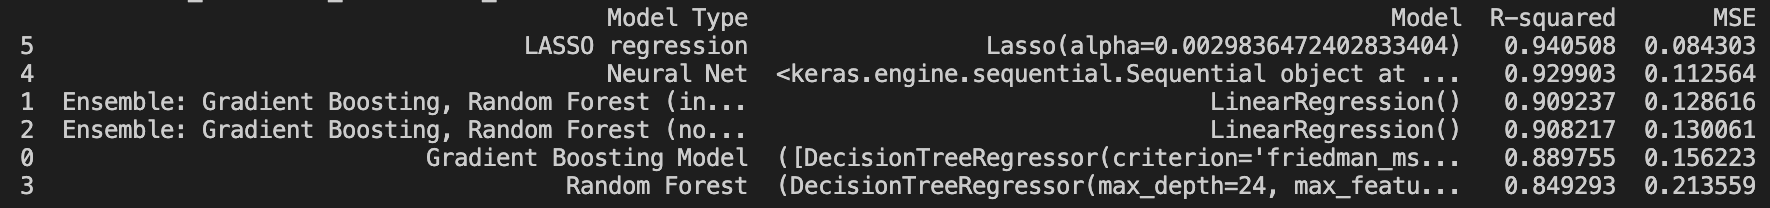
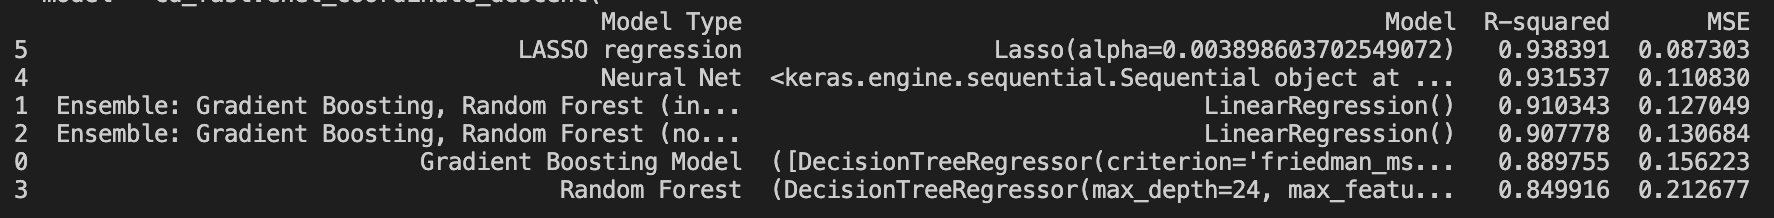
Final commit!

diff --git a/build_model.py b/build_model.py
@@ -6,6 +6,7 @@ from custom_functions import *
 from scipy.stats import randint     
 from sklearn.ensemble import GradientBoostingRegressor
 from sklearn.linear_model import LinearRegression
+import joblib
 import pickle
 
 # Read in the data from the CSV generated in Exploratory_data_analysis.py
@@ -36,11 +37,15 @@ def build_lasso_regression_model(df_to_feed_into_models: pd.DataFrame):
     X_train_scaled = scaler.fit_transform(X_train)
 
     X_test_scaled = scaler.transform(X_test)
+    # Save the scaler to a file:
+    scaler_filename = 'LASSO_scaler.pkl'
+    with open(scaler_filename, 'wb') as scaler_file:
+        pickle.dump(scaler, scaler_file)
 
     # Create a range of alpha values to test
-    alphas = np.logspace(-6, 2, 100)
-    # Initialize LassoCV with 4-fold cross-validation
-    lasso_cv = LassoCV(alphas=alphas, cv=4, verbose=False)  
+    alphas = np.logspace(-4, 1, 45)
+    # Initialize LassoCV with 3-fold cross-validation
+    lasso_cv = LassoCV(alphas=alphas, cv=3, verbose=False)  
     # Fit LassoCV to the scaled training data
     lasso_cv.fit(X_train_scaled, y_train)
     # Get the selected alpha
@@ -57,6 +62,21 @@ def build_lasso_regression_model(df_to_feed_into_models: pd.DataFrame):
     y_pred = lasso_model.predict(X_test_scaled)
     mse = mean_squared_error(y_test, y_pred)
     r_squared = r2_score(y_test, y_pred)
+
+    # Save the Lasso model using joblib
+    joblib.dump(lasso_model, "lasso_model_permeability.pkl")
+
+    # Calculate residuals
+    residuals = y_test - y_pred
+
+    # Create a scatter plot of residuals vs. predicted values
+    plt.scatter(y_pred, residuals, alpha=0.5)
+    plt.title('Residuals vs. Predicted Values')
+    plt.xlabel('Predicted Values')
+    plt.ylabel('Residuals')
+    plt.axhline(0, color='red', linestyle='--', linewidth=1)
+    plt.savefig('LASSO_residuals.png')
+
     return (lasso_model, r_squared, mse)
 
 
@@ -84,6 +104,7 @@ def build_random_forest_model(df_to_feed_into_models: pd.DataFrame, interactions
 
     if not interactions:
         X_train, X_test, y_train, y_test = train_test_split(X, y, test_size=0.3, random_state=84)
+        model_filename = "random_forest_model_permeability_no_interactions.pkl"
     
     else:
         # Here I'm making a subset of predictors that exclude all the chemical fingerprints 
@@ -119,6 +140,7 @@ def build_random_forest_model(df_to_feed_into_models: pd.DataFrame, interactions
         df_combined = pd.concat([X, only_the_interactions], axis=1)
 
         X_train, X_test, y_train, y_test = train_test_split(df_combined, y, test_size=0.3, random_state=84)
+        model_filename = "random_forest_model_permeability_w_interactions.pkl"
 
     
     # Standardize the features
@@ -168,6 +190,7 @@ def build_random_forest_model(df_to_feed_into_models: pd.DataFrame, interactions
     
 
     best_estimator = random_search_narrowed.best_estimator_
+    joblib.dump(best_estimator, model_filename)
     y_pred = best_estimator.predict(X_test_scaled)
     r_squared_rf = r2_score(y_test, y_pred)
     mse_rf = mean_squared_error(y_test, y_pred)
@@ -200,6 +223,7 @@ def ensemble_gradient_plus_random_forest(df_to_feed_into_models: pd.DataFrame, i
     if not interactions:
         X_train, X_test, y_train, y_test = train_test_split(X, y, test_size=0.3, random_state=84)
         scaler_filename = 'scaler_ensemble_no_interactions.pkl'
+        model_name = 'ensemble_model_no_interactions.pkl'
 
     elif interactions:
         print("examining interactions between non-fingerprint terms")
@@ -237,6 +261,7 @@ def ensemble_gradient_plus_random_forest(df_to_feed_into_models: pd.DataFrame, i
 
         X_train, X_test, y_train, y_test = train_test_split(df_combined, y, test_size=0.3, random_state=84)
         scaler_filename = 'scaler_ensemble_interactions.pkl'
+        model_name = 'ensemble_model_w_interactions.pkl'
 
     # Standardize the features
     scaler = StandardScaler()
@@ -260,6 +285,7 @@ def ensemble_gradient_plus_random_forest(df_to_feed_into_models: pd.DataFrame, i
     ensemble_X = np.column_stack((rf_predictions, gb_predictions))  # Combine predictions
     ensemble_model = LinearRegression()  
     ensemble_model.fit(ensemble_X, y_test)
+    joblib.dump(ensemble_model, model_name)
 
     # Make predictions using the ensemble model
     ensemble_predictions = ensemble_model.predict(ensemble_X)
@@ -289,6 +315,9 @@ def build_gradient_boosting_model(df_to_feed_into_models: pd.DataFrame):
     scaler = StandardScaler()
     X_train_scaled = scaler.fit_transform(X_train)
     X_test_scaled = scaler.transform(X_test)
+    scaler_filename = 'scaler_gradient_boosting.pkl'
+    with open(scaler_filename, 'wb') as scaler_file:
+        pickle.dump(scaler, scaler_file)
 
     # Initialize the Gradient Boosting Regressor
     gradient_boosting_model = GradientBoostingRegressor(
@@ -307,6 +336,8 @@ def build_gradient_boosting_model(df_to_feed_into_models: pd.DataFrame):
     # Evaluate the Gradient Boosting model's performance
     mse_gb = mean_squared_error(y_test, y_pred_gb)
     r_squared_gb = gradient_boosting_model.score(X_test_scaled, y_test)
+    model_name = 'gradient_boosting_model.pkl'
+    joblib.dump(gradient_boosting_model, model_name)
 
     return (gradient_boosting_model, r_squared_gb, mse_gb)
 
@@ -447,7 +478,7 @@ def build_neural_net(df_to_feed_into_models: pd.DataFrame, l2_penalty=None):
 
             # Train the neural network
             model.fit(X_train_combined_tf, y_train_tf, epochs=100, batch_size=32, verbose=1, validation_split=0.2)
-            model.save("neural_net_permeability.h5")
+            model.save("neural_net_permeability.pkl")
 
             # Evaluate the model on the test data
             mse_nn = model.evaluate(X_test_combined_tf, y_test_tf)

diff --git a/permeability_prediction.py b/permeability_prediction.py
@@ -1,0 +1,89 @@
+import argparse
+from rdkit import Chem
+from rdkit.Chem import Descriptors
+import pickle
+import numpy as np
+from custom_functions import *
+from Exploratory_data_analysis import *
+import joblib
+
+def load_scaler(scaler_file):
+    """
+    Load a scaler from a saved file.
+
+    Parameters:
+        scaler_file (str): The path to the saved scaler file.
+
+    Returns:
+        scaler: The loaded scaler object.
+    """
+    with open(scaler_file, 'rb') as scaler_file:
+        scaler = pickle.load(scaler_file)
+    return scaler
+
+def canonicalize_dataframe(df: pd.DataFrame):
+    """
+    Canonicalize a DataFrame by alphabetically ordering its column names.
+
+    The goal of this function is to put all the column names in alphabetical order so that
+    we can avoid an additional hard coding step when working with the DataFrame.
+
+    Parameters:
+        df (pd.DataFrame): The DataFrame to be canonicalized.
+
+    Returns:
+        pd.DataFrame: A new DataFrame with column names sorted alphabetically.
+    """
+    existing_columns = df.columns
+    sorted_columns = sorted(existing_columns)
+    # Create a mapping dictionary to rename columns alphabetically
+    rename_dict = {existing_columns[i]: sorted_columns[i] for i in range(len(existing_columns))}
+    canon_df = df.rename(columns=rename_dict)
+    return canon_df
+
+def predict_perm_from_smiles(smiles, scaler, model):
+    """
+    Predict permeability from SMILES notation using a pre-trained scaler and model.
+
+    Given a SMILES notation, this function calculates relevant features, scales them using a pre-trained scaler,
+    and then uses a pre-trained machine learning model to predict the permeability.
+
+    Parameters:
+        smiles (str or list of str): The SMILES notation(s) for which permeability is to be predicted.
+        scaler: The pre-trained scaler used for feature scaling.
+        model: The pre-trained machine learning model used for prediction.
+
+    Returns:
+        np.ndarray: Predicted permeability values corresponding to the input SMILES.
+    """
+    df = pd.DataFrame({'canonical_smiles':smiles}, index=[0])
+    featurized_data = add_features(df)
+    features_to_transform = ['num_rotatable_bonds','num_hydrogen_bond_donors','num_hydrogen_bond_acceptors','num_rings','num_aromatic_rings','num_het_atoms','MaxPartialCharge','tpsa','mol_weight']
+    new_feature_names = [x + '_Transformed' for x in features_to_transform]
+
+    # Get it in the right format for scaling (need to change column names) -- ideally this wouldn't be hard-coded
+    featurized_data = featurized_data.rename(columns=dict(zip(features_to_transform, new_feature_names)))
+    featurized_data = featurized_data.drop(columns=['canonical_smiles','fingerprint'])
+
+    # Get all the columns in the same order as the training data
+    featurized_data = canonicalize_dataframe(featurized_data)
+    features_scaled = scaler.transform(featurized_data) 
+    prediction = model.predict(features_scaled)
+    un_logged_prediction = np.exp(prediction)
+    return un_logged_prediction
+
+# Retrieve the best model and cognate scaler
+scaler_file = 'LASSO_scaler.pkl'
+model = joblib.load("lasso_model_permeability.pkl")
+
+if __name__ == "__main__":
+    parser = argparse.ArgumentParser(description="Predict permeability from SMILES string.")
+    parser.add_argument("smiles", type=str, help="Input SMILES string")
+    args = parser.parse_args()
+
+    # Retrieve the best model and cognate scaler
+    scaler_file = 'LASSO_scaler.pkl'
+    model = joblib.load("lasso_model_permeability.pkl")
+
+    prediction = predict_perm_from_smiles(args.smiles, load_scaler(scaler_file), model)
+    print(f"Predicted permeability for SMILES '{args.smiles}': {prediction}")

diff --git a/Exploratory_data_analysis.py b/Exploratory_data_analysis.py
@@ -220,8 +220,7 @@ if __name__ == "__main__":
     columns_to_remove = features_to_transform + ['molregno', 'canonical_smiles','Papp_in_cm_sec','fingerprint']
     # Remove the specified columns from filtered_df
     filtered_df = filtered_df.drop(columns=columns_to_remove)
-    print(filtered_df)
-
+    # Canonicalize the dataframe
     df_to_feed_into_models = canonicalize_dataframe(filtered_df.copy()) 
     # I wanted to pass this variable directly to the build_model.py file, but I was having issues with that.
     # so I decided to just save the data into a new CSV and open it when building the model.
